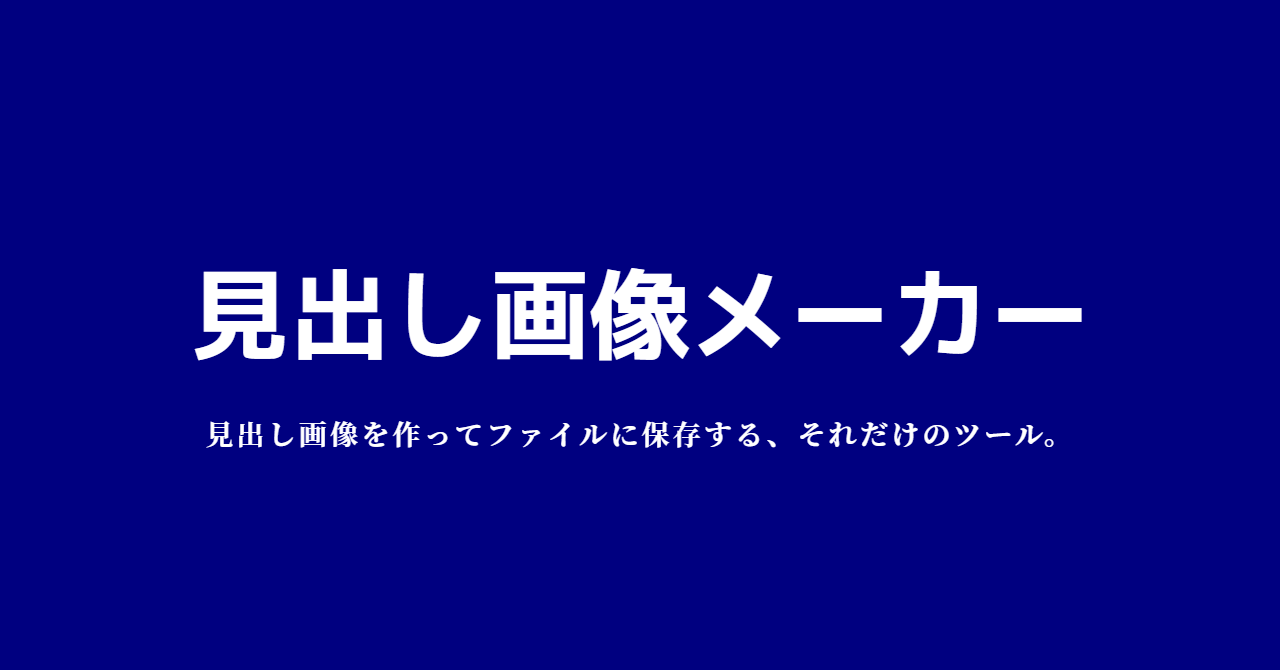
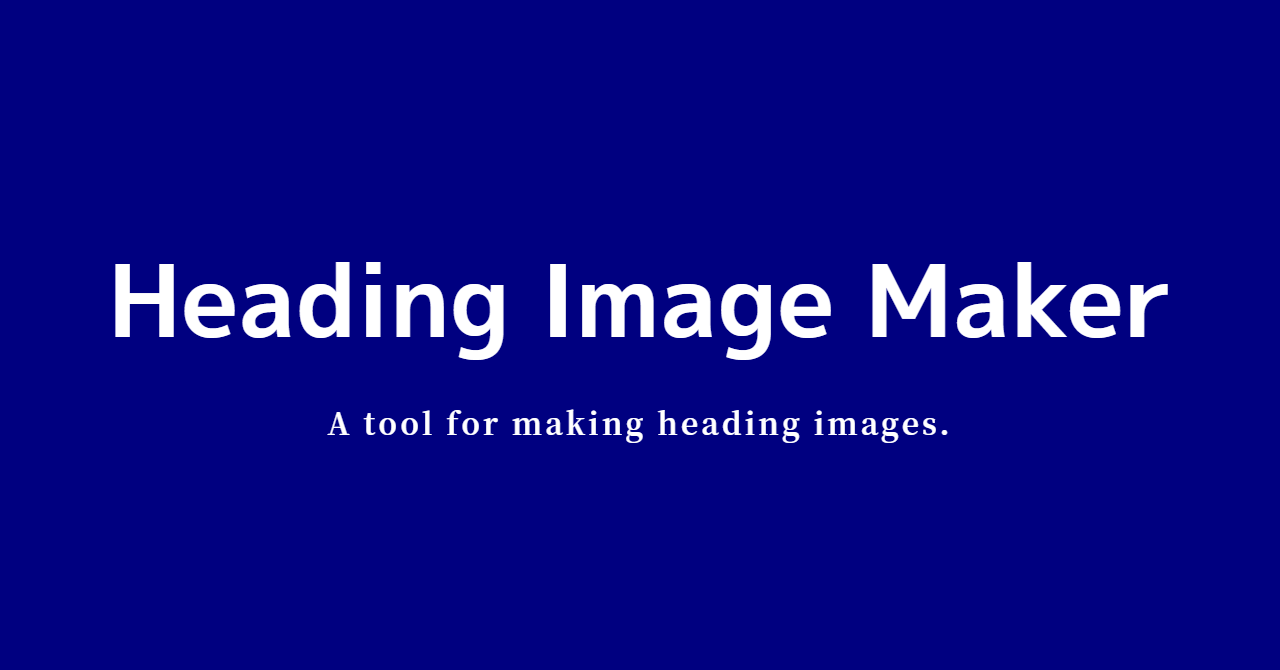
fix: en

Changed region(s): [[0.0625, 0.3881, 0.9375, 0.5373], [0.1562, 0.597, 0.8125, 0.6866]]

diff --git a/docs/index.html b/docs/index.html
@@ -3,15 +3,13 @@
 
 <head>
   <meta charset="utf-8" />
-  <title>Heading Image Maker - 見出し画像メーカー</title>
-  <meta name="description"
-    content="A tool for making heading images. - 見出し画像を作るツール。">
-  <meta name="keywords" content="note,見出し,画像,heading,image,png">
+  <title>Heading Image Maker | A tool for making heading images.</title>
+  <meta name="description" content="A tool for making heading images.">
+  <meta name="keywords" content="note,見出し,画像,メーカー,heading,image,maker">
   <meta name='twitter:card' content='summary_large_image'>
   <meta name='twitter:site' content='@fukuchiharuki'>
-  <meta name='twitter:title' content='Heading Image Maker - 見出し画像メーカー'>
-  <meta name='twitter:description'
-    content='A tool for making heading images. - 見出し画像を作るツール。'>
+  <meta name='twitter:title' content='Heading Image Maker'>
+  <meta name='twitter:description' content='A tool for making heading images.'>
   <meta name='twitter:image' content='https://heading-image-maker.github.io/images/key-visual.png'>
   <link rel="stylesheet" media="all" href="./css/font.css">
   <link rel="stylesheet" media="all" href="./css/style.css">
@@ -31,23 +29,23 @@
   <div id="container">
     <div id="canvas">
       <div class="text-layer">
-        <h1 class="text text--font-M_PLUS_1p">見出し画像メーカー</h1>
-        <p class="text description text--font-Noto_Serif_JP">見出し画像を作ってファイルに保存する、それだけのツール。</p>
+        <h1 class="text text--font-M_PLUS_1p">Heading Image Maker</h1>
+        <p class="text description text--font-Noto_Serif_JP">A tool for making heading images.</p>
       </div>
     </div>
   </div>
 
   <div class="download">
-    <button id="download">📦 画像にしてダウンロード</button>
+    <button id="download">📦 Download as Image</button>
   </div>
 
   <div id="form">
     <div class="grid">
       <div>
         <div class="control">
-          <div class="dt">見出し</div>
+          <div class="dt">Headline</div>
           <div class="dd">
-            <textarea id="input-heading">見出し画像メーカー</textarea>
+            <textarea id="input-heading">Heading Image Maker</textarea>
             <select id="input-heading-font">
               <option value="text--font-Noto_Serif_JP">Noto Serif JP</option>
               <option value="text--font-M_PLUS_1p" selected="selected">M PLUS 1p</option>
@@ -65,9 +63,9 @@
       </div>
       <div>
         <div class="control">
-          <div class="dt">説明文</div>
+          <div class="dt">Strapline</div>
           <div class="dd">
-            <textarea id="input-description">見出し画像を作ってファイルに保存する、それだけのツール。</textarea>
+            <textarea id="input-description">A tool for making heading images.</textarea>
             <select id="input-description-font">
               <option value="text--font-Noto_Serif_JP" selected="selected">Noto Serif JP</option>
               <option value="text--font-M_PLUS_1p">M PLUS 1p</option>
@@ -78,7 +76,7 @@
               <option value="text--font-Hannari">Hannari</option>
               <option value="text--font-Kokoro">Kokoro</option>
             </select>
-            <input type="number" id="input-description-size" value="28" /> px
+            <input type="number" id="input-description-size" value="30" /> px
             <label><input type="checkbox" id="input-description-bold" checked="checked" /> bold</label>
           </div>
         </div>
@@ -87,7 +85,7 @@
         <div class="grid">
           <div>
             <div class="control">
-              <div class="dt">文字色</div>
+              <div class="dt">Font Color</div>
               <div class="dd">
                 <input type="text" id="input-color" value="white" />
               </div>
@@ -95,7 +93,7 @@
           </div>
           <div>
             <div class="control">
-              <div class="dt">背景色</div>
+              <div class="dt">Background Color</div>
               <div class="dd">
                 <input type="text" id="input-background-color" value="navy" />
               </div>

diff --git a/docs/css/style.css b/docs/css/style.css
@@ -67,7 +67,7 @@ header {
 }
 
 #canvas .description {
-  font-size: 28px;
+  font-size: 30px;
   font-weight: 700;
   letter-spacing: 0.2rem;
 }
